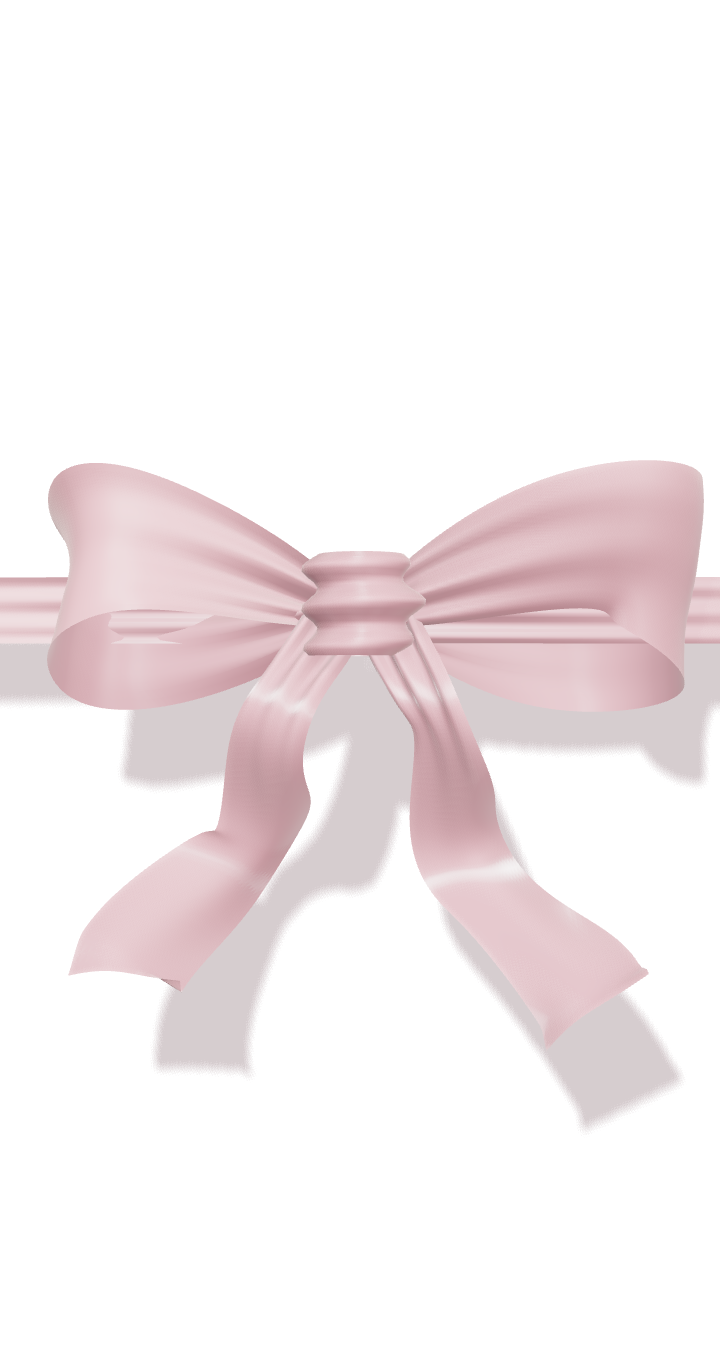
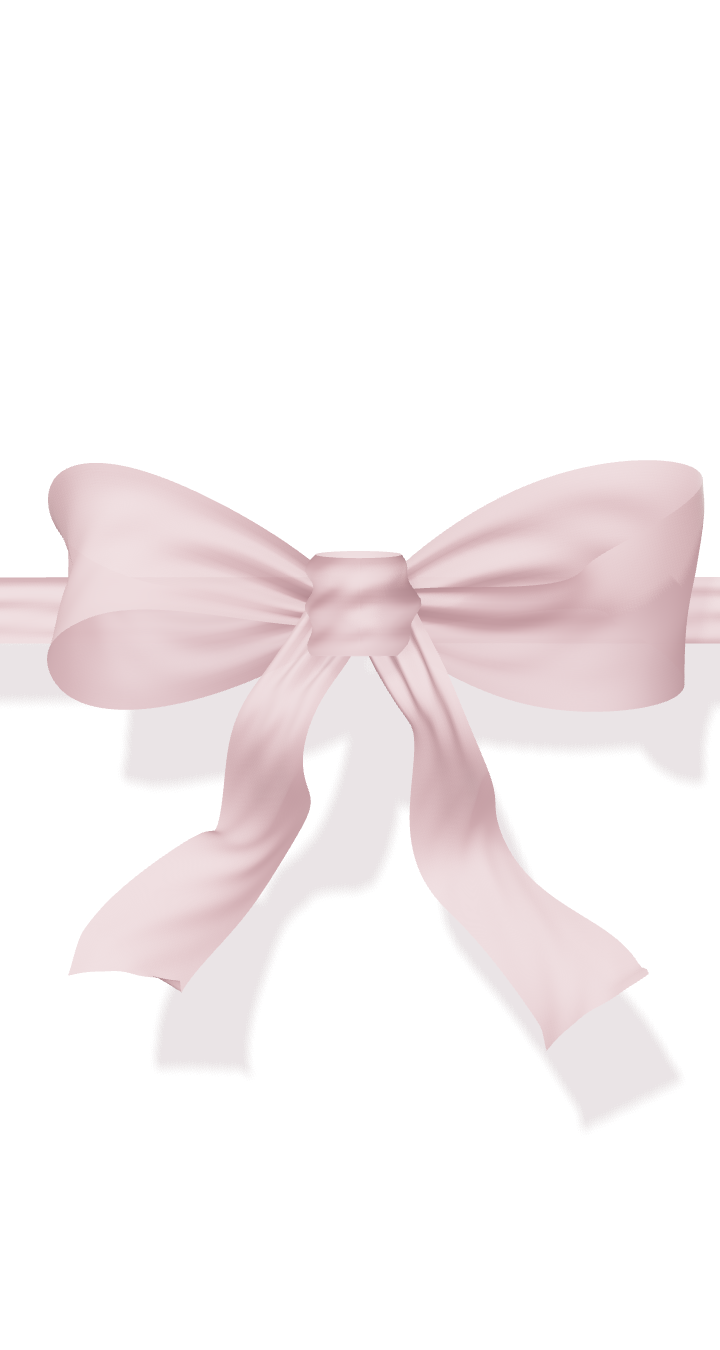
Match Rose bows and add soft chiffon material

diff --git a/src/Cinema.jsx b/src/Cinema.jsx
@@ -41,13 +41,13 @@ export function CinemaStage({event,guest,opened,onOpen,onReplay,onAnswer,lang='e
    <div className="atelier-date">{dateLabel(event.date,lang)}</div>
    <span className="atelier-place">{event.venue}</span>
   </div>
-  {theme.kind==='rose'&&<canvas className="atelier-ribbon-canvas" ref={ribbonCanvas} aria-hidden="true"/>}
+  {theme.kind==='rose'&&<><img className="ribbon-stage-still" src="/rose-ribbon-still.png" alt="" aria-hidden="true"/><canvas className="atelier-ribbon-canvas" ref={ribbonCanvas} aria-hidden="true"/></>}
   {theme.kind==='sage'?<SageEnvelope opened={opened} onComplete={setRevealed}/>:<div className="atelier-curtains" aria-hidden="true"><div className="atelier-leaf leaf-left" style={{backgroundImage:`url(/${theme.cover}.webp)`}}/><div className="atelier-leaf leaf-right" style={{backgroundImage:`url(/${theme.cover}.webp)`}}/></div>}
   {!opened&&<button className={`atelier-open-control ${theme.kind==='rose'?'with-ribbon':''}`} onClick={onOpen} aria-label={c.open}>
-    {theme.kind==='rose'?<img className="atelier-bow" src="/atelier-bow.webp" alt=""/>:theme.kind==='sage'?<span className="sage-seal-hitarea" aria-hidden="true"/>:<span className="atelier-monogram">{names.map(n=>n.trim()[0]).join(' & ')}</span>}
+    {theme.kind==='rose'?null:theme.kind==='sage'?<span className="sage-seal-hitarea" aria-hidden="true"/>:<span className="atelier-monogram">{names.map(n=>n.trim()[0]).join(' & ')}</span>}
     <span className="atelier-touch">{c.touch}</span>
   </button>}
-  {opened&&theme.kind==='rose'&&!ribbonReady&&<img className="atelier-bow departing-bow" src="/atelier-bow.webp" alt=""/>}
+
   {revealed&&<div className="atelier-scroll-hint"><span>{c.scroll}</span><ArrowDown size={17}/></div>}
   {revealed&&<button className="atelier-replay" aria-label={c.replay} onClick={()=>{onReplay();if(theme.kind==='rose'||theme.kind==='sage')root.current?.closest('.guest-experience')?.scrollTo({top:0,behavior:'instant'})}}><RotateCcw size={15}/></button>}
  </section>

diff --git a/src/ribbonSatin.js b/src/ribbonSatin.js
@@ -7,7 +7,7 @@ function clothTexture() {
   canvas.width = canvas.height = 128;
   const ctx = canvas.getContext('2d'), pixels = ctx.createImageData(128, 128);
   for (let y = 0; y < 128; y++) for (let x = 0; x < 128; x++) {
-    const value = 126 + Math.sin(x * Math.PI / 2) * 5 + Math.cos(y * Math.PI) * 2;
+    const value = 241 + Math.sin(x * Math.PI) * 5 + Math.cos(y * Math.PI / 2) * 5;
     const i = (y * 128 + x) * 4;
     pixels.data.set([value, value, value, 255], i);
   }
@@ -49,11 +49,13 @@ export function createRibbonRenderer(canvas, { onReady, onComplete, onError, sta
 
   const weave = clothTexture();
   const material = new THREE.MeshPhysicalMaterial({
-    color: '#cd96a0', metalness: 0, roughness: .25,
-    sheen: .5, sheenColor: '#ffe7e1', sheenRoughness: .28,
-    anisotropy: .65, anisotropyRotation: Math.PI / 2,
-    bumpMap: weave, bumpScale: .012, side: THREE.DoubleSide,
-    envMapIntensity: 1.1,
+    color: '#d8a5ad', metalness: 0, roughness: .91,
+    transparent: true, opacity: .99, alphaMap: weave, depthWrite: false,
+    specularIntensity: .12,
+    sheen: .16, sheenColor: '#f2d2d5', sheenRoughness: .92,
+    anisotropy: .08, anisotropyRotation: Math.PI / 2,
+    bumpMap: weave, bumpScale: .025, side: THREE.DoubleSide,
+    envMapIntensity: .35,
   });
   material.shadowSide = THREE.DoubleSide;
   const nu = 96, nv = 18, indices = [];
@@ -81,7 +83,7 @@ export function createRibbonRenderer(canvas, { onReady, onComplete, onError, sta
   for (const side of [-1, 1]) for (const type of ['band', 'tail', 'loop']) addSurface(side, type);
   addSurface(1, 'knot');
   const shadowGeometry = new THREE.PlaneGeometry(40, 50);
-  const shadowMaterial = new THREE.ShadowMaterial({ color: 0x58353d, opacity: .23 });
+  const shadowMaterial = new THREE.ShadowMaterial({ color: 0x58353d, opacity: .12 });
   const shadow = new THREE.Mesh(shadowGeometry, shadowMaterial);
   shadow.position.z = -.85;
   shadow.receiveShadow = true;

diff --git a/src/roseRibbonGeometry.js b/src/roseRibbonGeometry.js
@@ -69,15 +69,16 @@ export function ribbonRow(u, side, type, time) {
   const cos = Math.cos(c.twist), sin = Math.sin(c.twist);
   const wx = bx * cos + nx * sin, wy = by * cos + ny * sin, wz = bz * cos + nz * sin;
   const crownAxis = [ty * wz - tz * wy, tz * wx - tx * wz, tx * wy - ty * wx];
-  // A continuous gathered fold near the knot relaxes into a broad satin face.
-  const gathering = type === 'knot' ? .65 : type === 'loop' ? Math.exp(-u * 8) + Math.exp(-(1 - u) * 8) : Math.exp(-u * 7);
+  // A continuous gathered fold near the knot relaxes into a soft chiffon face.
+  const gathering = type === 'knot' ? .30 : type === 'loop' ? Math.exp(-u * 8) + Math.exp(-(1 - u) * 8) : Math.exp(-u * 7);
   return v => {
     const q = (v - .5) * c.width;
     const billow = (type === 'loop' ? .15 : .075) * Math.sin(Math.PI * v);
     const pleats = .09 * Math.sin(v * Math.PI * 5 + Math.sin(u * Math.PI * 2) * .6) * gathering;
     const fold = .025 * Math.sin(v * Math.PI * 2 + u * Math.PI * 2);
     const seam = .005 * (Math.exp(-Math.pow((v - .018) / .008, 2)) + Math.exp(-Math.pow((v - .982) / .008, 2)));
-    const depth = billow + pleats + fold + seam;
+    const wrinkles = .009 * Math.sin(u * Math.PI * 14 + v * 17) * Math.sin(v * Math.PI);
+    const depth = billow + pleats + fold + seam + wrinkles;
     const cut = type === 'tail' ? smooth((u - .96) / .04) * (v - .5) * .21 : 0;
     return [c.x + wx * q + crownAxis[0] * depth, c.y + wy * q + crownAxis[1] * depth + .45 + cut, c.z + wz * q + crownAxis[2] * depth];
   };

diff --git a/src/cinemaThemes.js b/src/cinemaThemes.js
@@ -1,5 +1,5 @@
 export const cinemaThemes = [
- {id:'rose-garden',name:'Rose & Ribbon',occasion:'Wedding',audience:'Romantic',kind:'rose',image:'atelier-rose',cover:'atelier-rose-cover',color:'#c29789',ink:'#634b45',names:'Juliette & Hugo',line:'Together is a beautiful place to be.',tag:'BLUSH ROSES · A SATIN RIBBON',motif:'ribbon'},
+ {id:'rose-garden',name:'Rose & Ribbon',occasion:'Wedding',audience:'Romantic',kind:'rose',image:'atelier-rose',cover:'atelier-rose-cover',color:'#c29789',ink:'#634b45',names:'Juliette & Hugo',line:'Together is a beautiful place to be.',tag:'BLUSH ROSES · SOFT CHIFFON',motif:'ribbon'},
  {id:'ivory',name:'The Ivory Garden',occasion:'Wedding',audience:'Romantic',kind:'ivory',image:'atelier-ivory',cover:'atelier-ivory-cover',color:'#9a8967',ink:'#4d514b',names:'Sofia & Alexander',line:'A lifetime of love begins here.',tag:'EMBROIDERED LINEN · LAKE COMO',motif:'doors'},
  {id:'sage',name:'A Secret in Sage',occasion:'Wedding',audience:'Romantic',kind:'sage',image:'atelier-sage',cover:'atelier-sage-cover',color:'#8d654e',ink:'#4b4936',names:'Clara & Gabriel',line:'Some days stay with us forever.',tag:'BOTANICAL PAPER · A WAX SEAL',motif:'envelope'},
  {id:'embroidered-chateau',name:'The Secret Conservatory',occasion:'Wedding',audience:'Romantic',kind:'craft',image:'craft-conservatory',cover:'craft-conservatory',color:'#a77a86',ink:'#414b40',names:'Élise & Théodore',line:'A little thread. A lifetime together.',tag:'SWEET-PEA SILK · A SECRET GLASSHOUSE',motif:'embroidery'},

diff --git a/src/RibbonPreview.jsx b/src/RibbonPreview.jsx
@@ -1,21 +1,6 @@
-import React, { useEffect, useRef, useState } from 'react';
+import React from 'react';
 
-// A still render of the actual opening mesh, rather than a different bow image.
+// The closed view is baked from the same mesh and lighting as the opening.
 export default function RibbonPreview({ className = '' }) {
-  const canvas = useRef(null), [ready, setReady] = useState(false);
-  useEffect(() => {
-    let engine, disposed = false, started = false;
-    const observer = new IntersectionObserver(entries => {
-      if (started || !entries.some(entry => entry.isIntersecting)) return;
-      started = true; observer.disconnect();
-      import('./ribbonSatin').then(({ createRibbonRenderer }) => {
-        if (disposed) return;
-        try { engine = createRibbonRenderer(canvas.current, { static: true, onReady: () => setReady(true), onError: () => setReady(false) }); }
-        catch { setReady(false); }
-      }).catch(() => setReady(false));
-    }, { rootMargin: '150px' });
-    observer.observe(canvas.current);
-    return () => { disposed = true; observer.disconnect(); engine?.dispose(); };
-  }, []);
-  return <span className={'ribbon-preview ' + (ready ? 'is-ready ' : '') + className} aria-hidden="true"><img className="ribbon-preview-fallback" src="/atelier-bow.webp" alt=""/><canvas ref={canvas}/></span>;
+  return <span className={'ribbon-preview ' + className} aria-hidden="true"><img src="/rose-ribbon-still.png" alt="" decoding="async"/></span>;
 }

diff --git a/src/atelier.css b/src/atelier.css
@@ -159,3 +159,11 @@
 .st-card-rose .st-card-text{top:auto!important;bottom:4%!important;left:9%!important;right:9%!important;padding:10px;background:#fff8edf0;border:1px solid #e7d3c4;border-radius:3px}
 .st-card-rose .st-card-text h3{font-size:24px!important;margin:4px 0!important}
 .st-card-rose .st-card-text>p,.st-card-rose .st-card-over{display:none}
+/* All Rose surfaces share the same model; never swap in a photographic bow. */
+.ribbon-preview>img,.ribbon-stage-still{position:absolute;inset:0;width:100%;height:100%;object-fit:cover;pointer-events:none}
+.ribbon-stage-still{z-index:9}
+.ribbon-ready .ribbon-stage-still{visibility:hidden}
+.atelier-rose .atelier-open-control.with-ribbon{inset:0;width:100%;height:100%;transform:none;display:block;background:transparent}
+.atelier-rose .with-ribbon .atelier-touch{position:absolute;left:50%;bottom:18%;transform:translateX(-50%);white-space:nowrap}
+.atelier-rose.atelier-opening:not(.ribbon-ready) .ribbon-stage-still{animation:rose-still-fall 4s ease-in forwards}
+@keyframes rose-still-fall{0%,20%{transform:translateY(0)}45%{transform:translateY(5%) rotate(-5deg)}100%{transform:translateY(140%) rotate(18deg)}}
